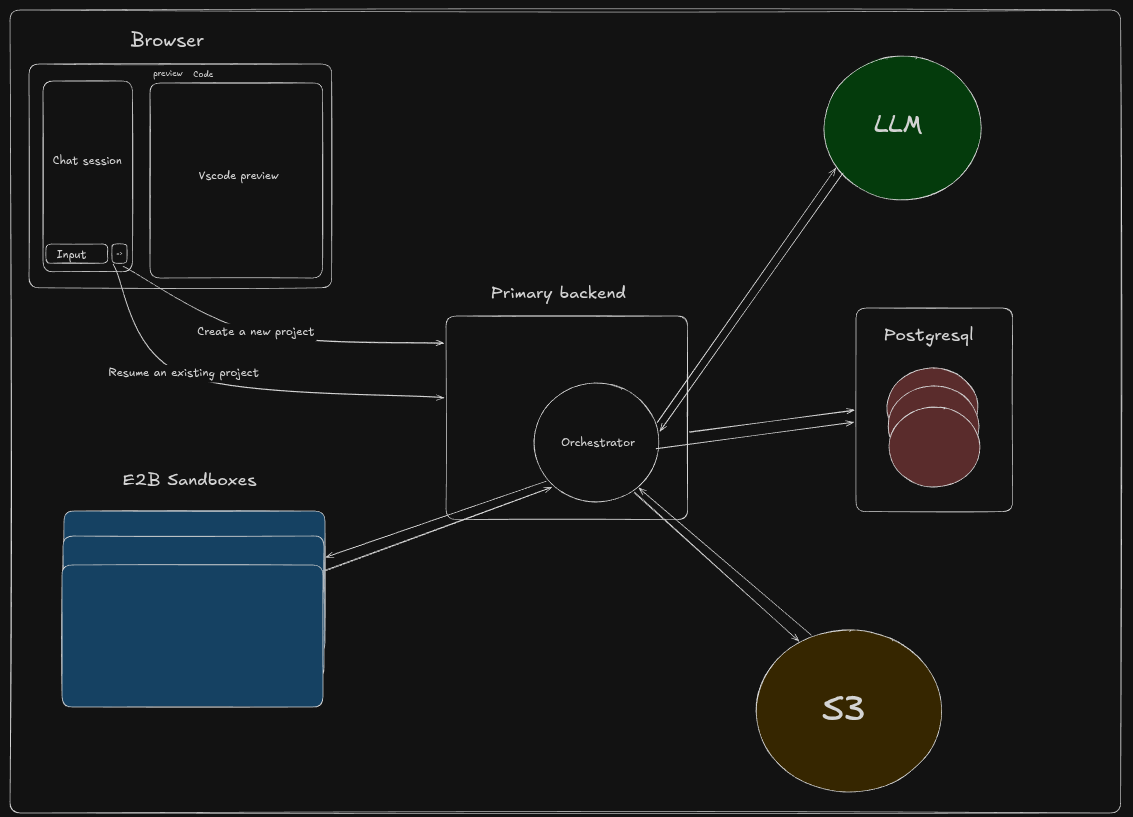
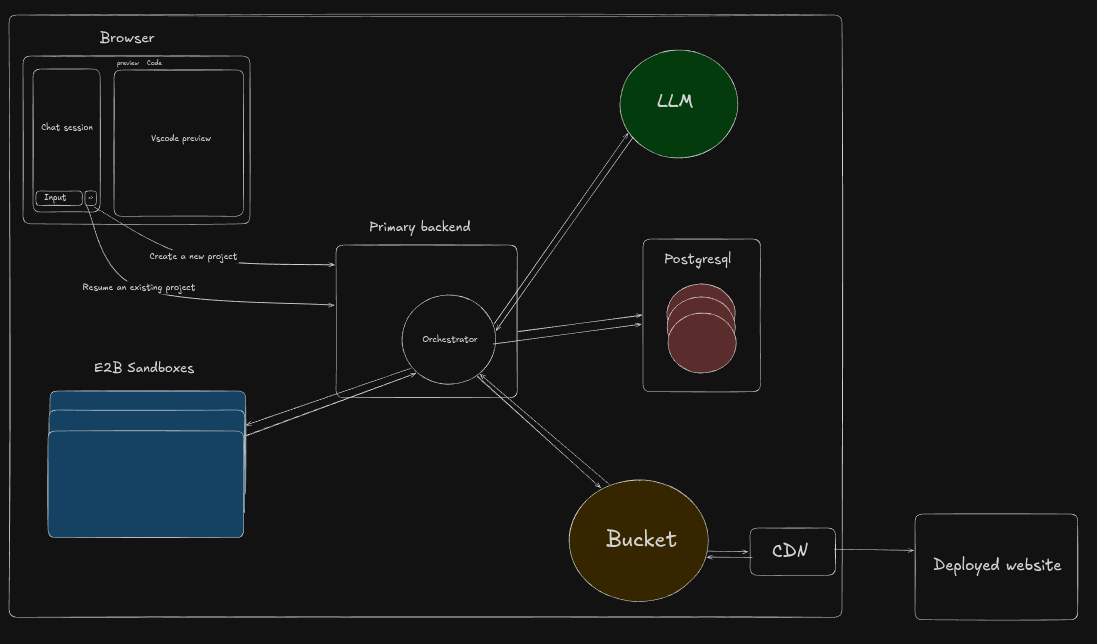
replaced pub sub model with db row and polling

diff --git a/apps/backend/src/router/deployRouter.ts b/apps/backend/src/router/deployRouter.ts
@@ -1,7 +1,9 @@
 import { Router, Response, Request } from "express";
 import { getParam } from "../lib/utils";
 import { prisma } from "@repo/database/client";
-import { sendAndAwait, getDeploymentStatus } from "../lib/queue";
+import { getQueueClient } from "../lib/redis";
+import { REDIS_QUEUE_NAME, WORKER_JOB_TYPES } from "@repo/common/data";
+import type { WorkerQueueItem } from "@repo/common/types";
 
 export const deployRouter: Router = Router();
 
@@ -16,10 +18,25 @@ deployRouter.post("/:projectId", async (req: Request, res: Response) => {
       res.status(404).json({ message: "Project not found" });
       return;
     }
-
     const deployId = crypto.randomUUID();
 
-    await sendAndAwait(deployId, res, projectId);
+    await prisma.project.update({
+      where: { id: projectId },
+      data: { deployIngStatus: "QUEUED" },
+    });
+
+    const item: WorkerQueueItem = {
+      type: WORKER_JOB_TYPES.DEPLOY,
+      payload: { projectId, deployId },
+    };
+    await getQueueClient().lPush(REDIS_QUEUE_NAME, JSON.stringify(item));
+
+    res.json({
+      message: "Deployment queued",
+      projectId,
+      deployId,
+      status: "QUEUED",
+    });
   } catch (err) {
     console.error("Deploy error:", err);
     if (!res.headersSent) {
@@ -43,13 +60,12 @@ deployRouter.get(
         return;
       }
 
-      const status = await getDeploymentStatus(deployId);
-      if (!status) {
-        res.status(404).json({ message: "Deployment not found" });
-        return;
-      }
-
-      res.json({ projectId, deployId, ...status });
+      res.json({
+        projectId,
+        deployId,
+        status: project.deployIngStatus,
+        deployedUrl: project.deployedUrl ?? undefined,
+      });
     } catch (err) {
       console.error("Deploy status error:", err);
       res.status(500).json({ message: "Failed to fetch deployment status" });

diff --git a/apps/backend/src/lib/redis.ts b/apps/backend/src/lib/redis.ts
@@ -1,21 +1,12 @@
 import { createClient, RedisClientType } from "redis";
 
 let queueClient: RedisClientType | null = null;
-let pubSubClient: RedisClientType | null = null;
 
-export async function initRedis(): Promise<{
-  queueClient: RedisClientType;
-  pubSubClient: RedisClientType;
-}> {
+export async function initRedis() {
   if (!queueClient) {
     queueClient = createClient({ url: process.env.REDIS_URL });
     await queueClient.connect();
   }
-  if (!pubSubClient) {
-    pubSubClient = createClient({ url: process.env.REDIS_URL });
-    await pubSubClient.connect();
-  }
-  return { queueClient, pubSubClient };
 }
 
 export function getQueueClient(): RedisClientType {
@@ -23,17 +14,4 @@ export function getQueueClient(): RedisClientType {
     throw new Error("Redis not initialized. Call initRedis() first.");
   }
   return queueClient;
-}
-
-export function getPubSubClient(): RedisClientType {
-  if (!pubSubClient) {
-    throw new Error("Redis not initialized. Call initRedis() first.");
-  }
-  return pubSubClient;
-}
-
-export async function closeRedis(): Promise<void> {
-  await Promise.allSettled([queueClient?.quit(), pubSubClient?.quit()]);
-  queueClient = null;
-  pubSubClient = null;
 }

diff --git a/apps/backend/src/index.ts b/apps/backend/src/index.ts
@@ -11,7 +11,7 @@ import { auth } from "./lib/auth";
 import { projectRouter } from "./router/projectRouter";
 import { authMiddleware } from "./middleware/authMiddleware";
 import { initOrchestrator, shutdownOrchestrator } from "./lib/orchestrator";
-import { initRedis, closeRedis } from "./lib/redis";
+// import { initRedis } from "./lib/redis";
 import { chatRouter } from "./router/chatRouter";
 import { sandboxRouter } from "./router/sandboxRouter";
 import { deployRouter } from "./router/deployRouter";
@@ -68,18 +68,15 @@ main();
 
 process.on("SIGINT", async () => {
   await shutdownOrchestrator();
-  await closeRedis();
   shutdown(0);
 });
 process.on("SIGTERM", async () => {
   await shutdownOrchestrator();
-  await closeRedis();
   shutdown(0);
 });
 
 process.on("uncaughtException", async (err) => {
   console.error("uncaught:", err);
   await shutdownOrchestrator();
-  await closeRedis();
   shutdown(1);
 });
